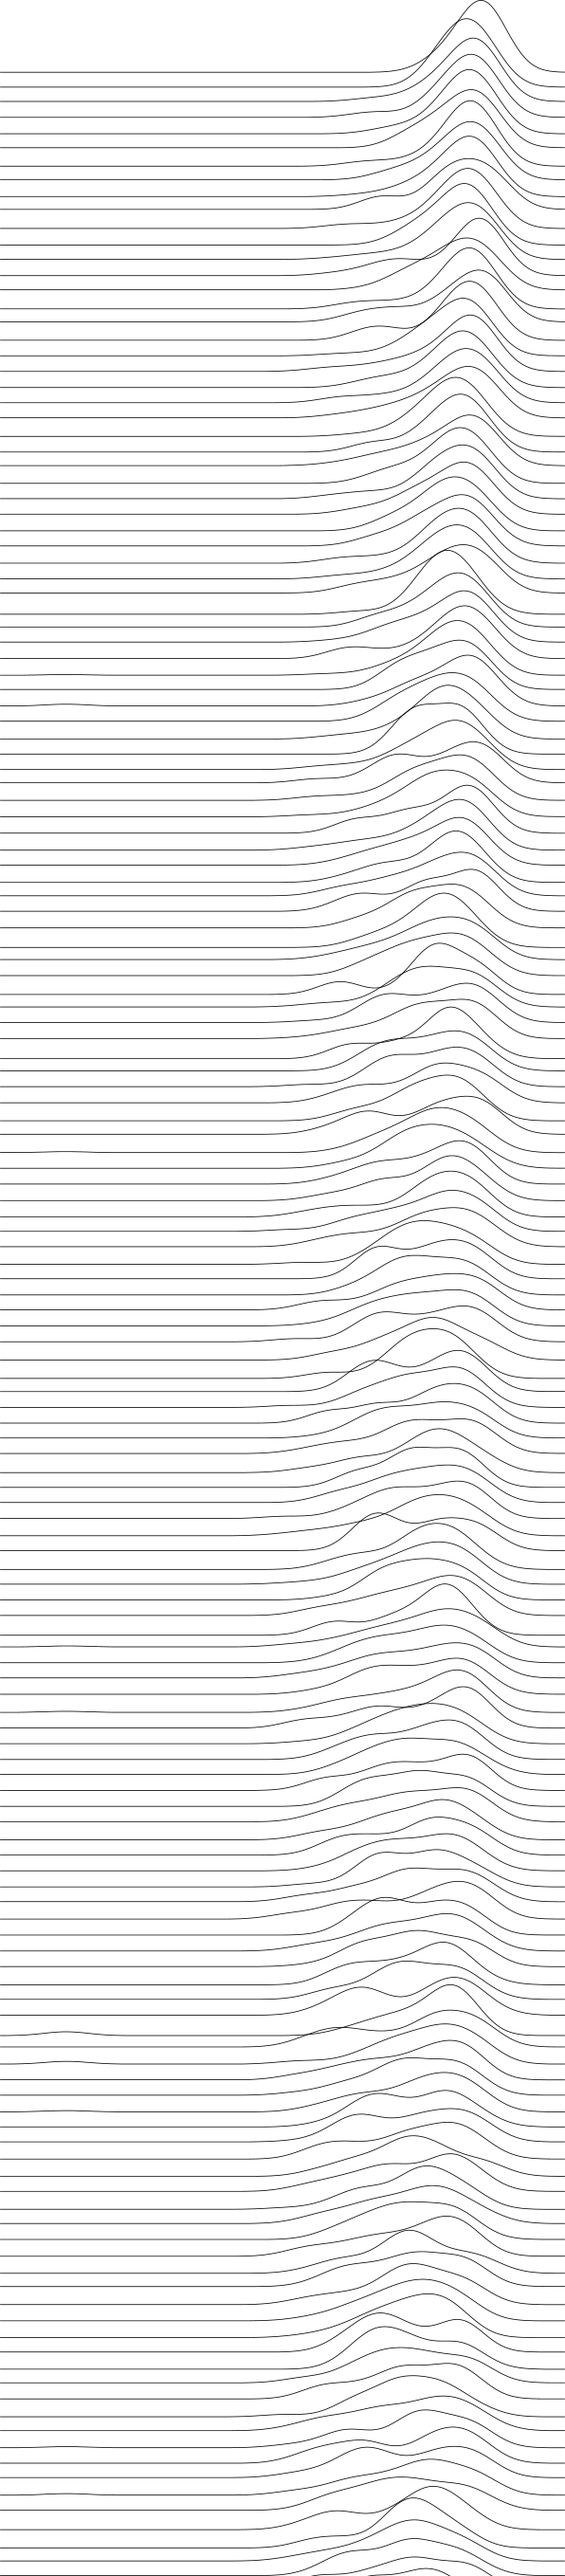
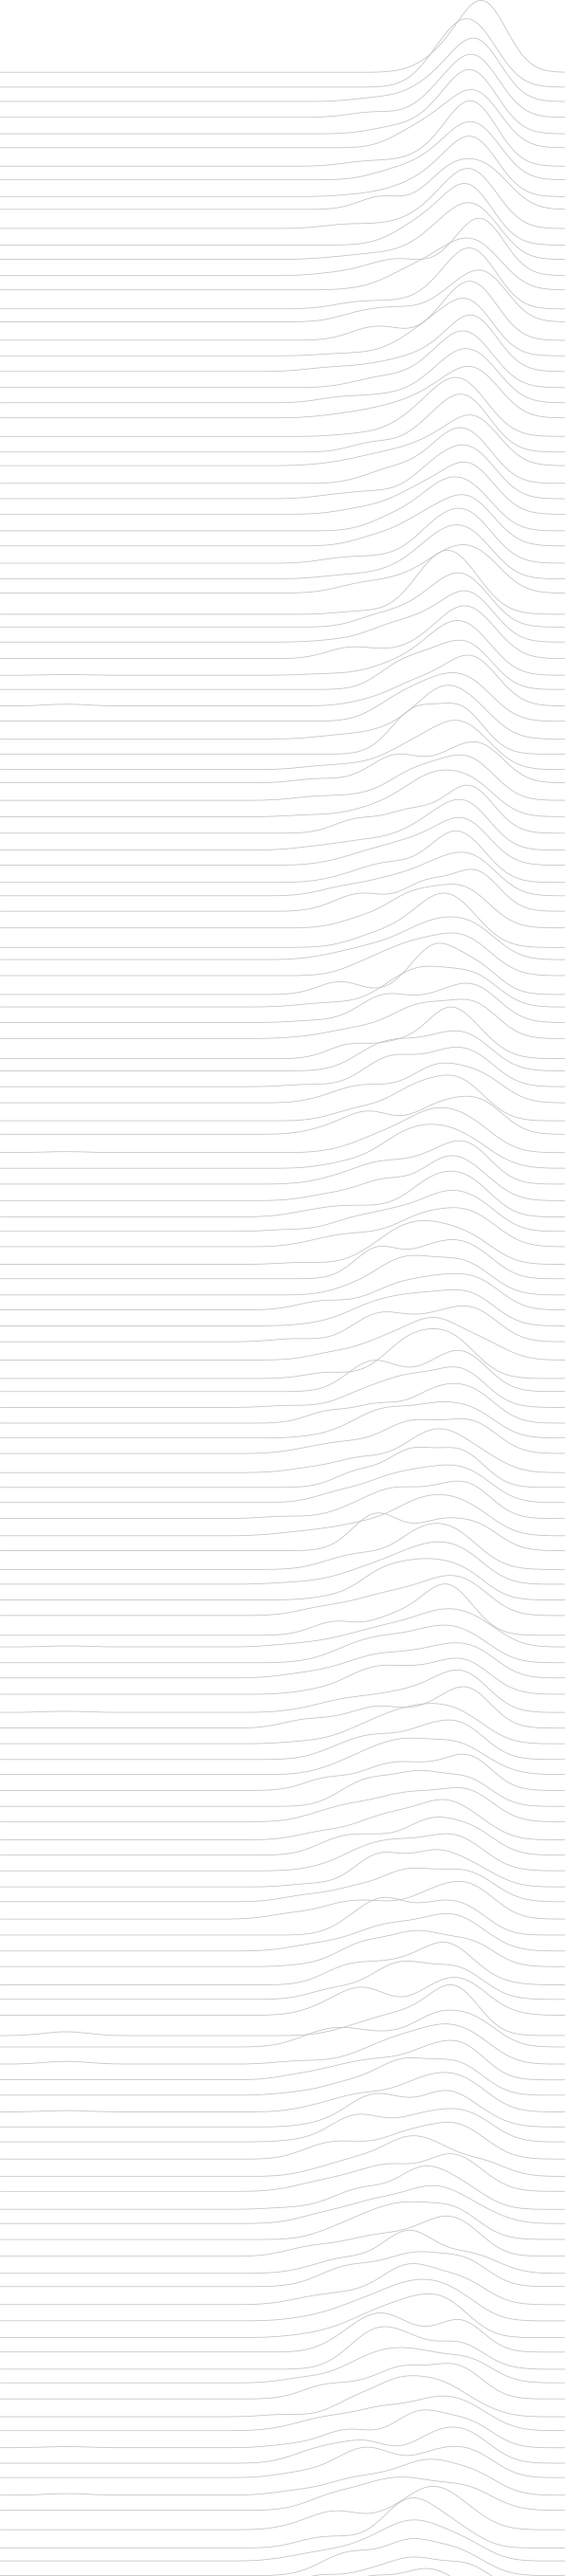
black baground

diff --git a/css/application.css b/css/application.css
@@ -5,8 +5,10 @@ html {
 body {
   font-family: Open Sans, sans-serif;
   font-size: 100%;
-  color: #383e47;
+  color: white;
+  /*color: #383e47;*/
   width: 100%;
+  background-color: #505050;
   /*footer height plus padding*/
   margin-bottom: 200px; }
 
@@ -191,7 +193,7 @@ p {
 body {
   height: 100vh;
   margin-top: 0;
-  color: #383e47; }
+  color: white; }
 
 p {
   font-size: 1.6em; }

diff --git a/index.html b/index.html
@@ -90,7 +90,7 @@
 
 </div>
 
-<div style="margin-top: 100px; margin-bottom: 100px;">
+<div style="margin-top: 50px; margin-bottom: 50px;">
     <div class="container">
         <div class="row">
             <div class="col-xs-12">
